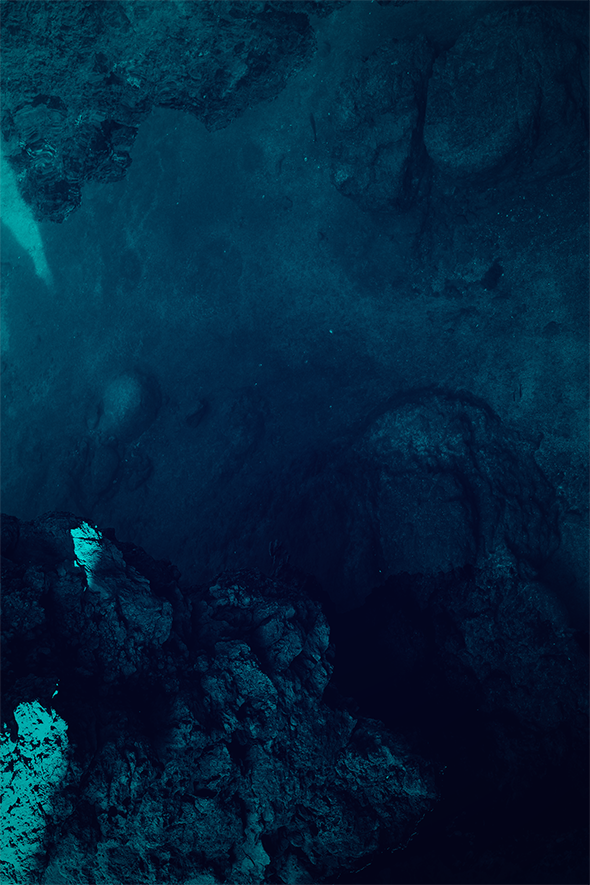
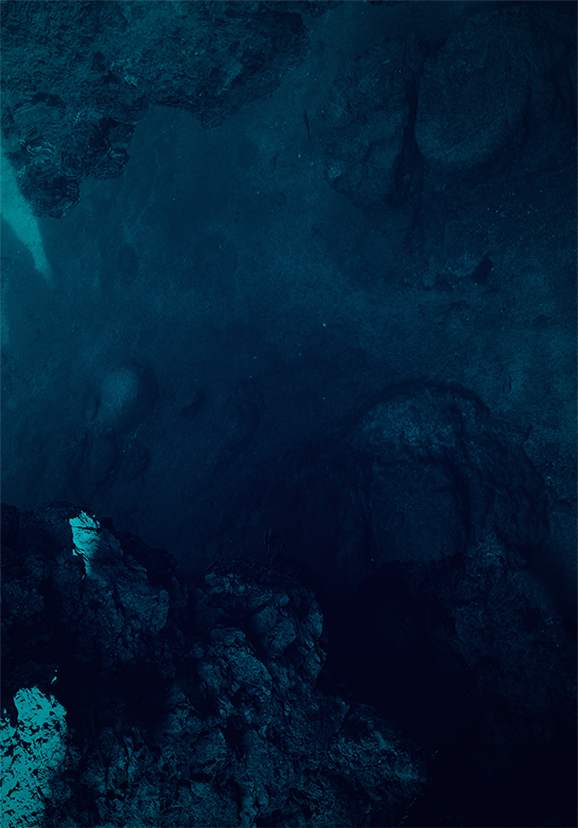
Smooth scroll and new bg landing

diff --git a/style/style.css b/style/style.css
@@ -9,6 +9,12 @@ Pure White:
 Grey: #2d2d2d
 #626262
 #828282*/
+
+html {
+  scroll-behavior: smooth;
+}
+
+
 p {
   font-family: "Roboto", sans-serif;
   font-weight: 200;
@@ -187,13 +193,10 @@ div.activatePieceOut, div.activatePieceOut2 {
 /*END OF NAV*/
 /* LANDING PAGE */
 
-
-
 .landing-page {
-  background-image: url('../images/bg-landing.png');
+  background-image: url('../images/bg-landing-desktop.png');
   height: 100vh;
   width: 100vw;
-  max-width: 100%;
   min-height: 450px;
   position: relative;
   background-attachment: fixed;
@@ -203,14 +206,9 @@ div.activatePieceOut, div.activatePieceOut2 {
 }
 
 .hero-landing {
-  background: rgba(0, 0, 20, 0.4);
   padding: 1em 1em 0.5em 1em;
-  height: 95%;
-  width: 95%;
-  position: absolute;
-  top: 50%;
-  left: 50%;
-  transform: translate(-50%, -50%);
+  height: 100%;
+  width: 100%;
 }
 
 .logo-hero {
@@ -997,15 +995,10 @@ footer {
   }
 
 .landing-page{
-    height: 95vh;
+    height: calc(100vh - 80px);
     background-image: url('../images/bg-landing-tablet.png');
     position: relative;
-    background-attachment: scroll;
-    background-position: center;
-    background-repeat: no-repeat;
-    background-size: cover;
   }
-
 
   #about-page, #services-page, #portfolio-page {
     height: 100%;
@@ -1017,27 +1010,24 @@ footer {
   }
 
   #pictureabout {
-    height: 50%;
-    position: absolute;
-    bottom: 0;
+    height: 40%;
+    position: relative;
     left: 50%;
     transform: translate(-50%, 0%)
   }
 
   #pictureabout img {
-    height: 80%;
-    left: 50%;
-    bottom: 50%;
-    transform: translate(-50%, -50%);
-    max-height: 500px;
+    height: 100%;
+    left: 70%;
   }
 
   #textabout {
-    height: 50%;
+    height: 60%;
     width: 70%;
     transform: translate(-50%, 0%);
     left: 50%;
-    padding: 60px 5px 5px 5px;
+    padding: 5px;
+    position: relative;
   }
 
   .PortContainer  {
@@ -1047,7 +1037,7 @@ footer {
 }
 
 /* Small desktop or tablet side */
-@media (min-width: 768px) and (max-width: 992px) {
+@media (min-width: 769px) and (max-width: 992px) {
   #navbar {
     display: none;
   }
@@ -1057,15 +1047,18 @@ footer {
   }
 
 .landing-page{
-    height: 95vh;
+    height: calc(100vh - 80px);
     background-image: url('../images/bg-landing-tablet.png');
     position: relative;
-    background-attachment: scroll;
-    background-position: center;
-    background-repeat: no-repeat;
-    background-size: cover;
   }
 
+}
 
+/* big desktop */
+@media (min-width: 1680) {
+
+  .landing-page{
+      background-image: url('../images/bg-landing-tablet.png');
+    }
 
 }
